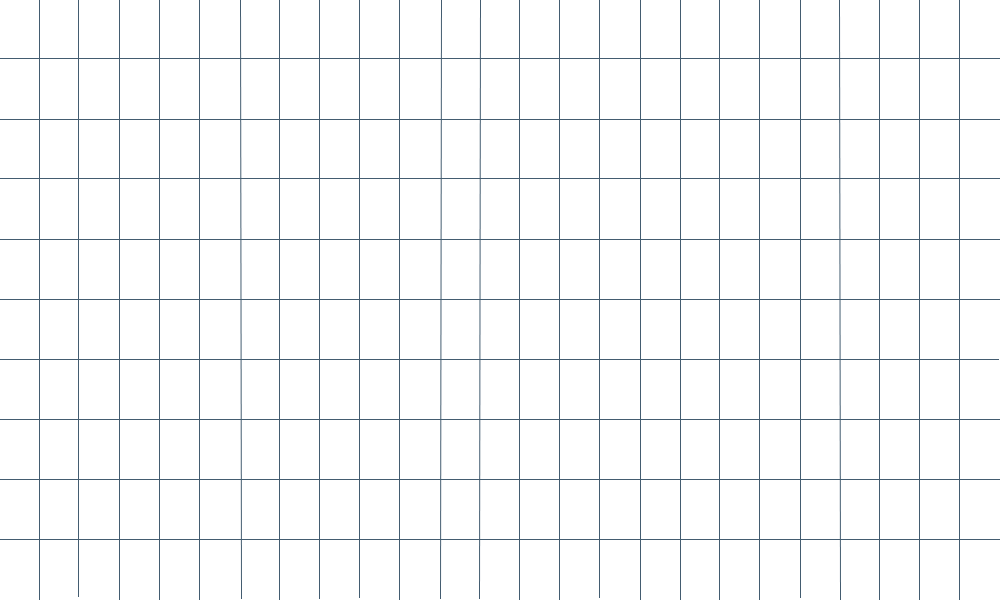
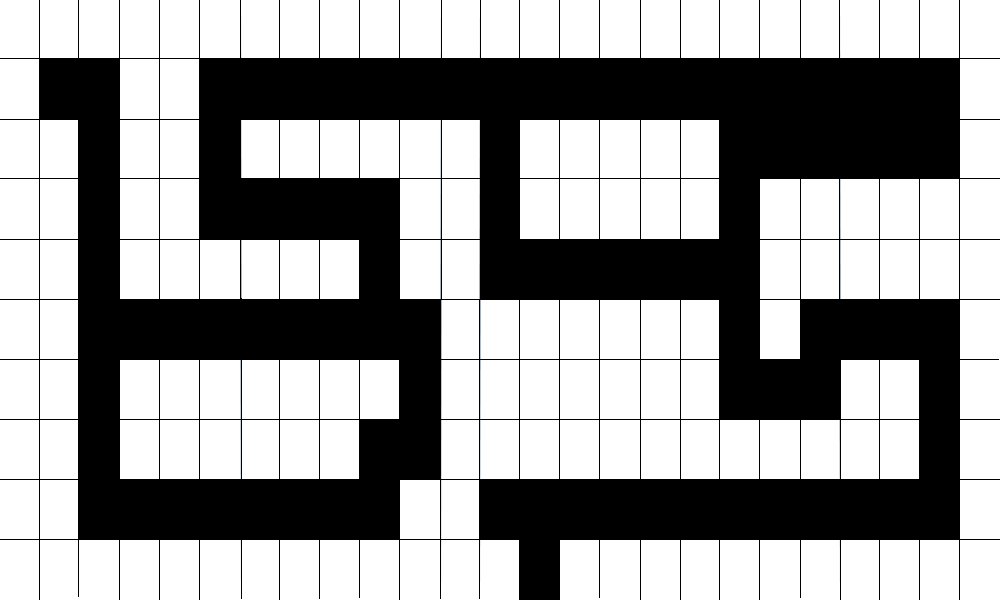
move

diff --git a/TeamWorkJavaScript/public_html/Script/game.js b/TeamWorkJavaScript/public_html/Script/game.js
@@ -3,14 +3,14 @@ var player, level;
 var puzzle = [ 
     [
         [0, 0, 0, 0, 0, 0, 0, 0, 0, 0, 0, 0, 0, 0, 0, 0, 0, 0, 0, 0, 0, 0, 0, 0, 0],
-        [0, 1, 1, 1, 1, 1, 1, 1, 1, 1, 1, 1, 1, 1, 1, 1, 1, 1, 1, 1, 1, 1, 1, 1, 0],
-        [0, 1, 1, 1, 1, 1, 1, 1, 1, 1, 1, 1, 1, 1, 1, 1, 1, 1, 1, 1, 1, 1, 1, 1, 0],
-        [0, 1, 1, 1, 1, 1, 1, 1, 1, 1, 1, 1, 1, 1, 1, 1, 1, 1, 1, 1, 1, 1, 1, 1, 0],
-        [0, 1, 1, 1, 1, 1, 1, 1, 1, 1, 1, 1, 1, 1, 1, 1, 1, 1, 1, 1, 1, 1, 1, 1, 0],
-        [0, 1, 1, 1, 1, 1, 1, 1, 1, 1, 1, 1, 1, 1, 1, 1, 1, 1, 1, 1, 1, 1, 1, 1, 0],
-        [0, 1, 1, 1, 1, 1, 1, 1, 1, 1, 1, 1, 1, 1, 1, 1, 1, 1, 1, 1, 1, 1, 1, 1, 0],
-        [0, 1, 1, 1, 1, 1, 1, 1, 1, 1, 1, 1, 1, 1, 1, 1, 1, 1, 1, 1, 1, 1, 1, 1, 0],
-        [0, 1, 1, 1, 1, 1, 1, 1, 1, 1, 1, 1, 1, 1, 1, 1, 1, 1, 1, 1, 1, 1, 1, 1, 0],
+        [1, 1, 1, 0, 0, 1, 1, 1, 1, 1, 1, 1, 1, 1, 1, 1, 1, 1, 1, 1, 1, 1, 1, 1, 0],
+        [0, 0, 1, 0, 0, 1, 0, 0, 0, 0, 0, 0, 1, 0, 0, 0, 0, 0, 1, 1, 1, 1, 1, 1, 0],
+        [0, 0, 1, 0, 0, 1, 1, 1, 1, 1, 0, 0, 1, 0, 0, 0, 0, 0, 1, 0, 0, 0, 0, 0, 0],
+        [0, 0, 1, 0, 0, 0, 0, 0, 0, 1, 0, 0, 1, 1, 1, 1, 1, 1, 1, 0, 0, 0, 0, 0, 0],
+        [0, 0, 1, 1, 1, 1, 1, 1, 1, 1, 1, 0, 0, 0, 0, 0, 0, 0, 1, 0, 1, 1, 1, 1, 0],
+        [0, 0, 1, 0, 0, 0, 0, 0, 0, 0, 1, 0, 0, 0, 0, 0, 0, 0, 1, 1, 1, 0, 0, 1, 0],
+        [0, 0, 1, 0, 0, 0, 0, 0, 0, 1, 1, 0, 0, 0, 0, 0, 0, 0, 0, 0, 0, 0, 0, 1, 0],
+        [0, 0, 1, 1, 1, 1, 1, 1, 1, 1, 0, 0, 1, 1, 1, 1, 1, 1, 1, 1, 1, 1, 1, 1, 0],
         [0, 0, 0, 0, 0, 0, 0, 0, 0, 0, 0, 0, 0, 0, 0, 0, 0, 0, 0, 0, 0, 0, 0, 0, 0]
     ]
 ];
